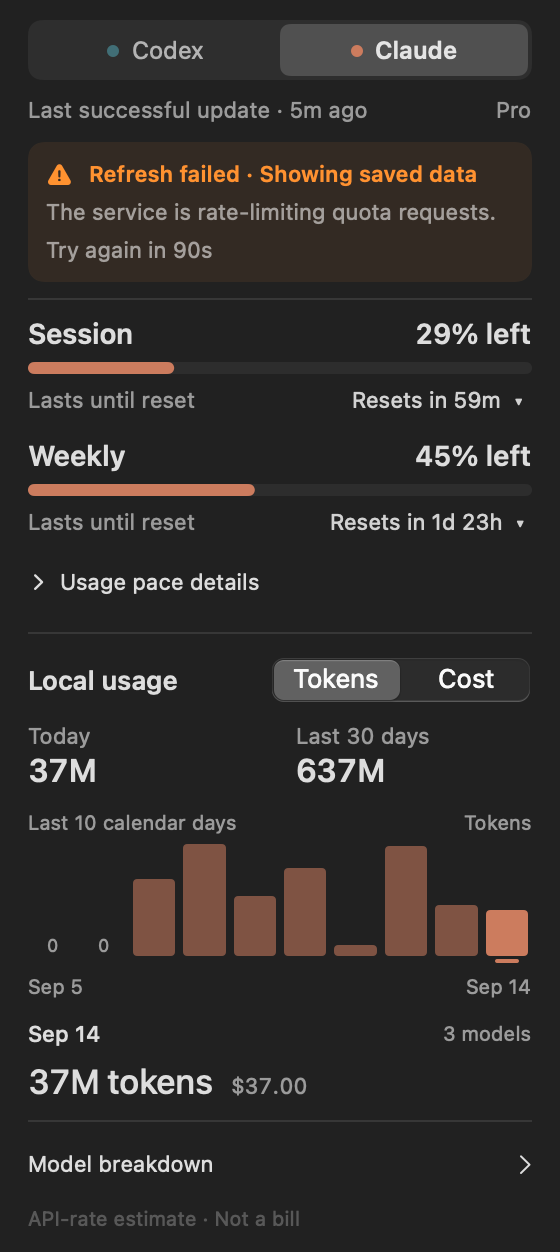
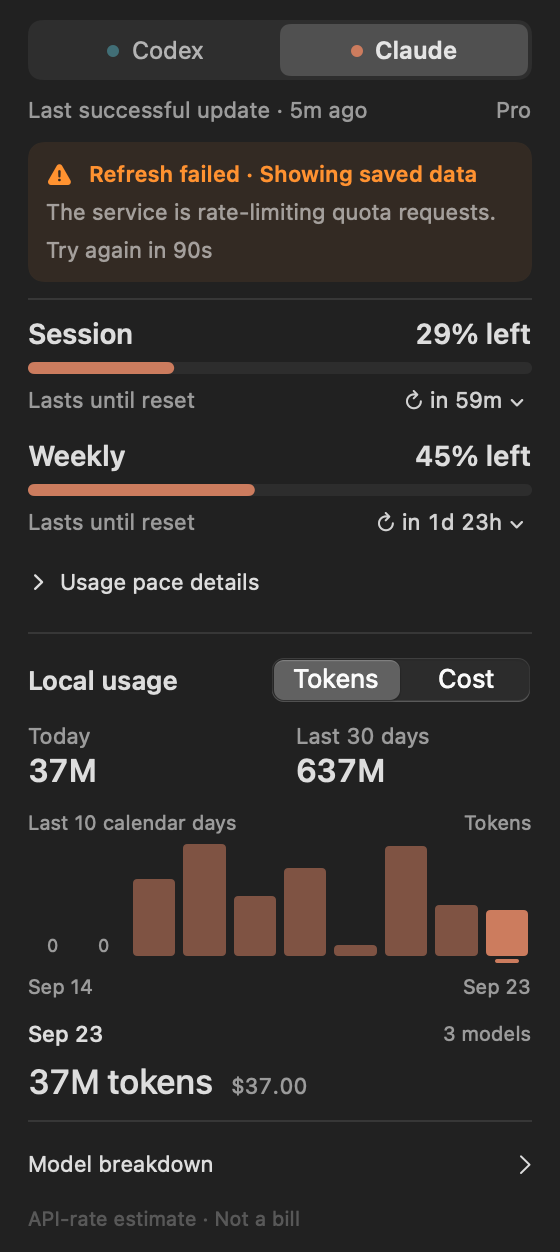
fix(menu): keep long reset dates on one line with the pace summary
Replace the word "Resets" with an arrow.clockwise symbol and the text
triangle with a small chevron. A clock-face reset a week or more away
("Sep 30, 1:59 AM") no longer pushes the reset control onto its own
line below the pace summary. The accessibility label still says
"resets".

diff --git a/Sources/QuotaBar/QuotaResetLabel.swift b/Sources/QuotaBar/QuotaResetLabel.swift
@@ -4,6 +4,8 @@ import SwiftUI
 
 /// The one line a quota window devotes to its reset, in whichever of its two faces the reader
 /// last asked for. Kept out of the view so the wording can be checked without a running menu.
+/// The word "Resets" is left to the view's symbol and accessibility label, which keeps the longest
+/// clock face on one line beside the pace summary in a 280pt card.
 enum QuotaResetLabel {
     static func text(
         resetsAt: Date,
@@ -15,9 +17,9 @@ enum QuotaResetLabel {
         switch mode {
         case .countdown:
             // "in" only reads right in front of a duration, which is why the clock face drops it.
-            "Resets in \(Formatters.compactDuration(resetsAt.timeIntervalSince(now)))"
+            "in \(Formatters.compactDuration(resetsAt.timeIntervalSince(now)))"
         case .clock:
-            "Resets \(Formatters.resetClock(resetsAt, now: now, calendar: calendar, locale: locale))"
+            Formatters.resetClock(resetsAt, now: now, calendar: calendar, locale: locale)
         }
     }
 }
@@ -35,23 +37,25 @@ struct ResetLabel: View {
                 self.onModeChanged(self.mode.toggled)
             }
         } label: {
-            Text("\(self.text)  ▾")
-                .font(.system(size: 11, weight: .regular))
-                .foregroundStyle(self.previewHovered ? Color.primary : Color.secondary)
-                .padding(.horizontal, 5)
-                .padding(.vertical, 2)
-                .background(Color.secondary.opacity(0.07), in: RoundedRectangle(cornerRadius: 5))
-                .overlay {
-                    RoundedRectangle(cornerRadius: 5)
-                        .strokeBorder(Color.secondary.opacity(0.2), lineWidth: 1)
-                }
-                .fixedSize(horizontal: true, vertical: false)
+            // One concatenated Text: the borderless menu flattens its label, and inline images
+            // are what survive it, where padding, borders and stacked views do not.
+            (
+                Text(Image(systemName: "arrow.clockwise"))
+                    .font(.system(size: 9, weight: .semibold))
+                    + Text(" \(self.text) ")
+                    .font(.system(size: 11))
+                    .monospacedDigit()
+                    + Text(Image(systemName: "chevron.down"))
+                    .font(.system(size: 7, weight: .bold))
+            )
+            .foregroundStyle(self.previewHovered ? Color.primary : Color.secondary)
+            .fixedSize(horizontal: true, vertical: false)
         }
         .menuStyle(.borderlessButton)
         .menuIndicator(.hidden)
         .controlSize(.small)
         .font(.system(size: 11))
         .fixedSize(horizontal: true, vertical: false)
-        .accessibilityLabel("Reset time display, \(self.text)")
+        .accessibilityLabel("Reset time display, resets \(self.text)")
     }
 }

diff --git a/Sources/QuotaBar/QuotaResetLabelVerifier.swift b/Sources/QuotaBar/QuotaResetLabelVerifier.swift
@@ -22,13 +22,13 @@ enum QuotaResetLabelVerifier {
             resetsAt: now.addingTimeInterval(86 * 60),
             mode: .countdown,
             now: now,
-            "Resets in 1h 26m"
+            "in 1h 26m"
         )
         Self.expect(
             resetsAt: now.addingTimeInterval(5 * 86_400),
             mode: .countdown,
             now: now,
-            "Resets in 5d 0h"
+            "in 5d 0h"
         )
 
         // Later today: the time alone cannot be read as any other day.
@@ -36,34 +36,34 @@ enum QuotaResetLabelVerifier {
             resetsAt: Self.date(2026, 8, 28, 15, 30),
             mode: .clock,
             now: now,
-            "Resets 3:30 PM"
+            "3:30 PM"
         )
         // Half an hour away but across midnight — short countdown, different day.
         Self.expect(
             resetsAt: Self.date(2026, 8, 29, 0, 30),
             mode: .clock,
             now: Self.date(2026, 8, 28, 23, 59),
-            "Resets Sat 12:30 AM"
+            "Sat 12:30 AM"
         )
         Self.expect(
             resetsAt: Self.date(2026, 9, 3, 9, 0),
             mode: .clock,
             now: now,
-            "Resets Thu 9:00 AM"
+            "Thu 9:00 AM"
         )
         // A week out, where a weekday would name the day the reader is standing on.
         Self.expect(
             resetsAt: Self.date(2026, 9, 7, 9, 0),
             mode: .clock,
             now: now,
-            "Resets Sep 7, 9:00 AM"
+            "Sep 7, 9:00 AM"
         )
         // Already past: the countdown floors at zero rather than counting up.
         Self.expect(
             resetsAt: now.addingTimeInterval(-600),
             mode: .countdown,
             now: now,
-            "Resets in 0m"
+            "in 0m"
         )
 
         VerifierReport.finish(

diff --git a/Sources/QuotaBar/CelebrationDump.swift b/Sources/QuotaBar/CelebrationDump.swift
@@ -70,7 +70,7 @@ private struct CelebrationCardFrame: View {
                     .font(.system(size: 11))
                     .foregroundStyle(.secondary)
                 Spacer(minLength: 0)
-                ResetLabel(text: "Resets in 5h 00m", mode: .countdown, onModeChanged: { _ in })
+                ResetLabel(text: "in 5h 00m", mode: .countdown, onModeChanged: { _ in })
             }
         }
         .padding(.horizontal, 14)

diff --git a/docs/design-implementation.md b/docs/design-implementation.md
@@ -40,7 +40,7 @@ Build with the macOS 27 SDK in Xcode 27 to enable native expanded interface sess
 
 Run `.build/debug/QuotaBar --verify-menu-interaction` in a logged-in desktop session to check the fallback status-button path. It reproduces the remote menu bar's global mouse notification before forwarding the same click to the status button. A click within the button's screen bounds must remain open for the toggle action; a click outside must dismiss the card. It also dispatches mouse-down and mouse-up separately and checks accessibility activation, keyboard focus, Cmd-1, Escape, foreground application preservation, and local dismissal with isolated data. Animated dismissals wait for completion with a bounded deadline. Focused motion checks cover immediate control-input cleanup, keyboard suppression during fading, key-window consistency, reopening without a stale completion closing or dimming the card, duplicate global/local delivery of a reopening click, and Reduce Motion changes while the card is open. This check presents a real popover and stays separate from the headless `make test` suite. Native expanded sessions and the system menu bar's rendered transitions require actual pointer interaction; `performClick` and posted events do not reproduce the remote host's full behavior.
 
-`--verify-menu-lifecycle`, included in `make test`, checks the activation handoff, mouse and keyboard event ordering, Escape, and cancellation without posting desktop input. To check native menu tracking, open the loaded preview's status icon while another app is frontmost, then click either `Resets…` control once. Its menu must stay open after release; selecting an item must update both reset labels without closing the card. Repeat after dismissing the card and returning focus to another app.
+`--verify-menu-lifecycle`, included in `make test`, checks the activation handoff, mouse and keyboard event ordering, Escape, and cancellation without posting desktop input. To check native menu tracking, open the loaded preview's status icon while another app is frontmost, then click either reset-time control (`↻ …`) once. Its menu must stay open after release; selecting an item must update both reset labels without closing the card. Repeat after dismissing the card and returning focus to another app.
 
 Dark and light sample views, signed-out guidance, a cooldown error, and an invalid pricing field were rendered and inspected during implementation. A complete manual VoiceOver and Full Keyboard Access audit remains outstanding. The native AppKit key-equivalent check does not claim a complete assistive-technology audit.
 
